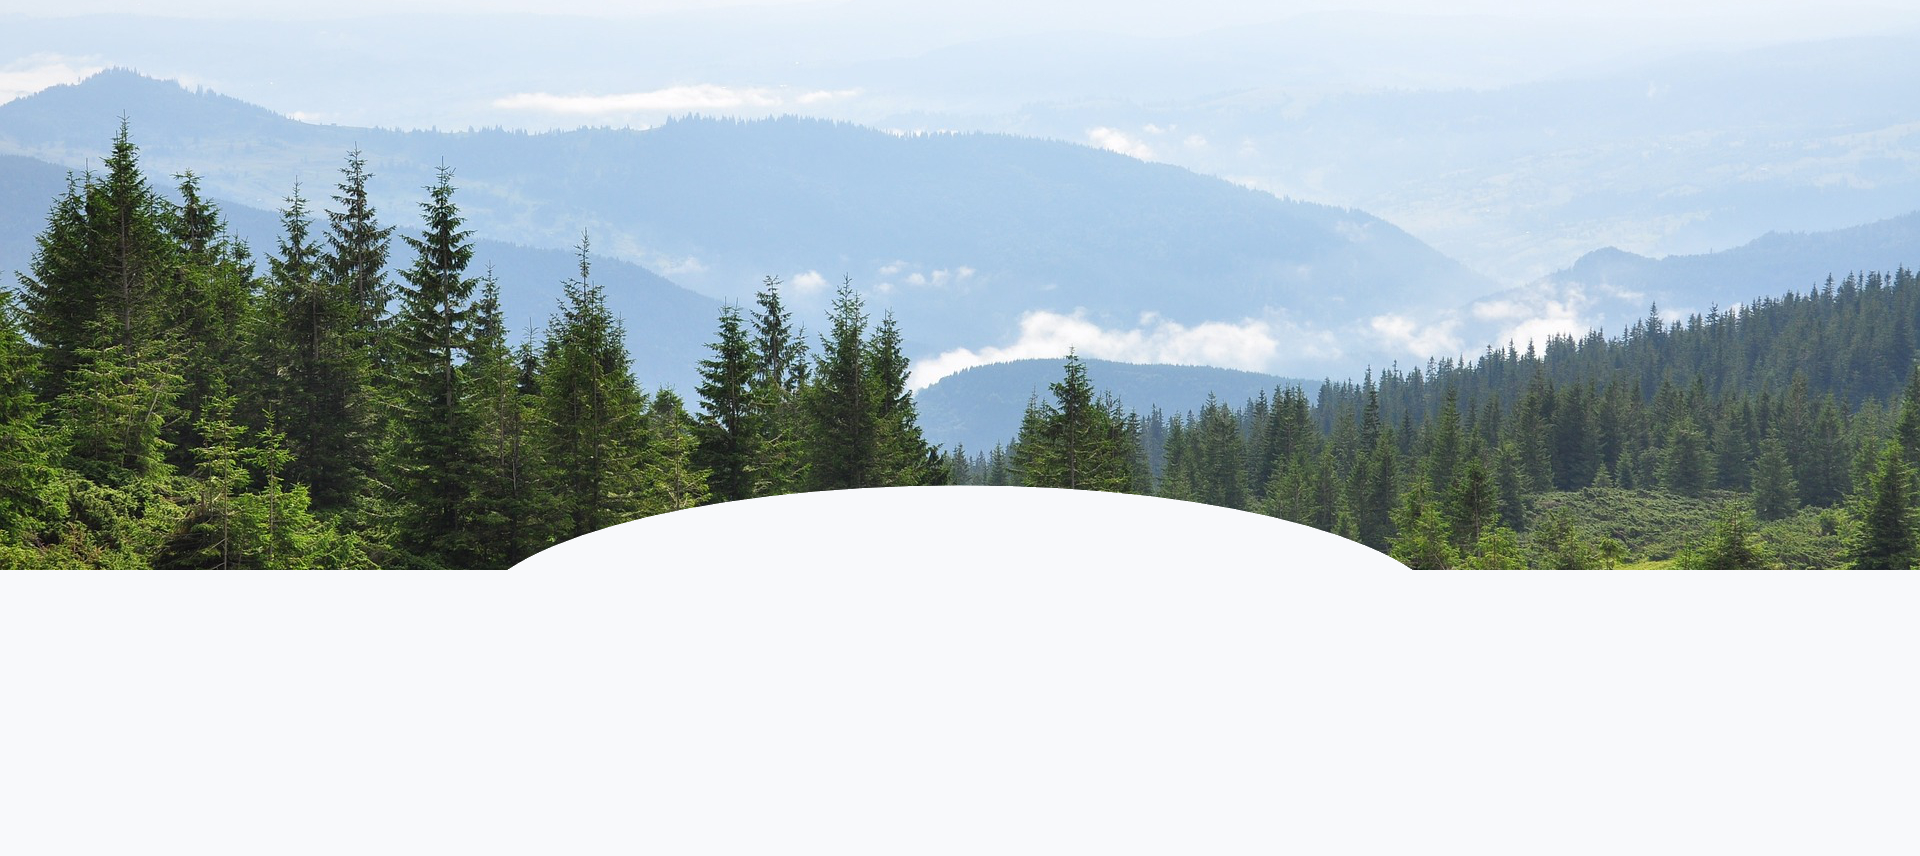
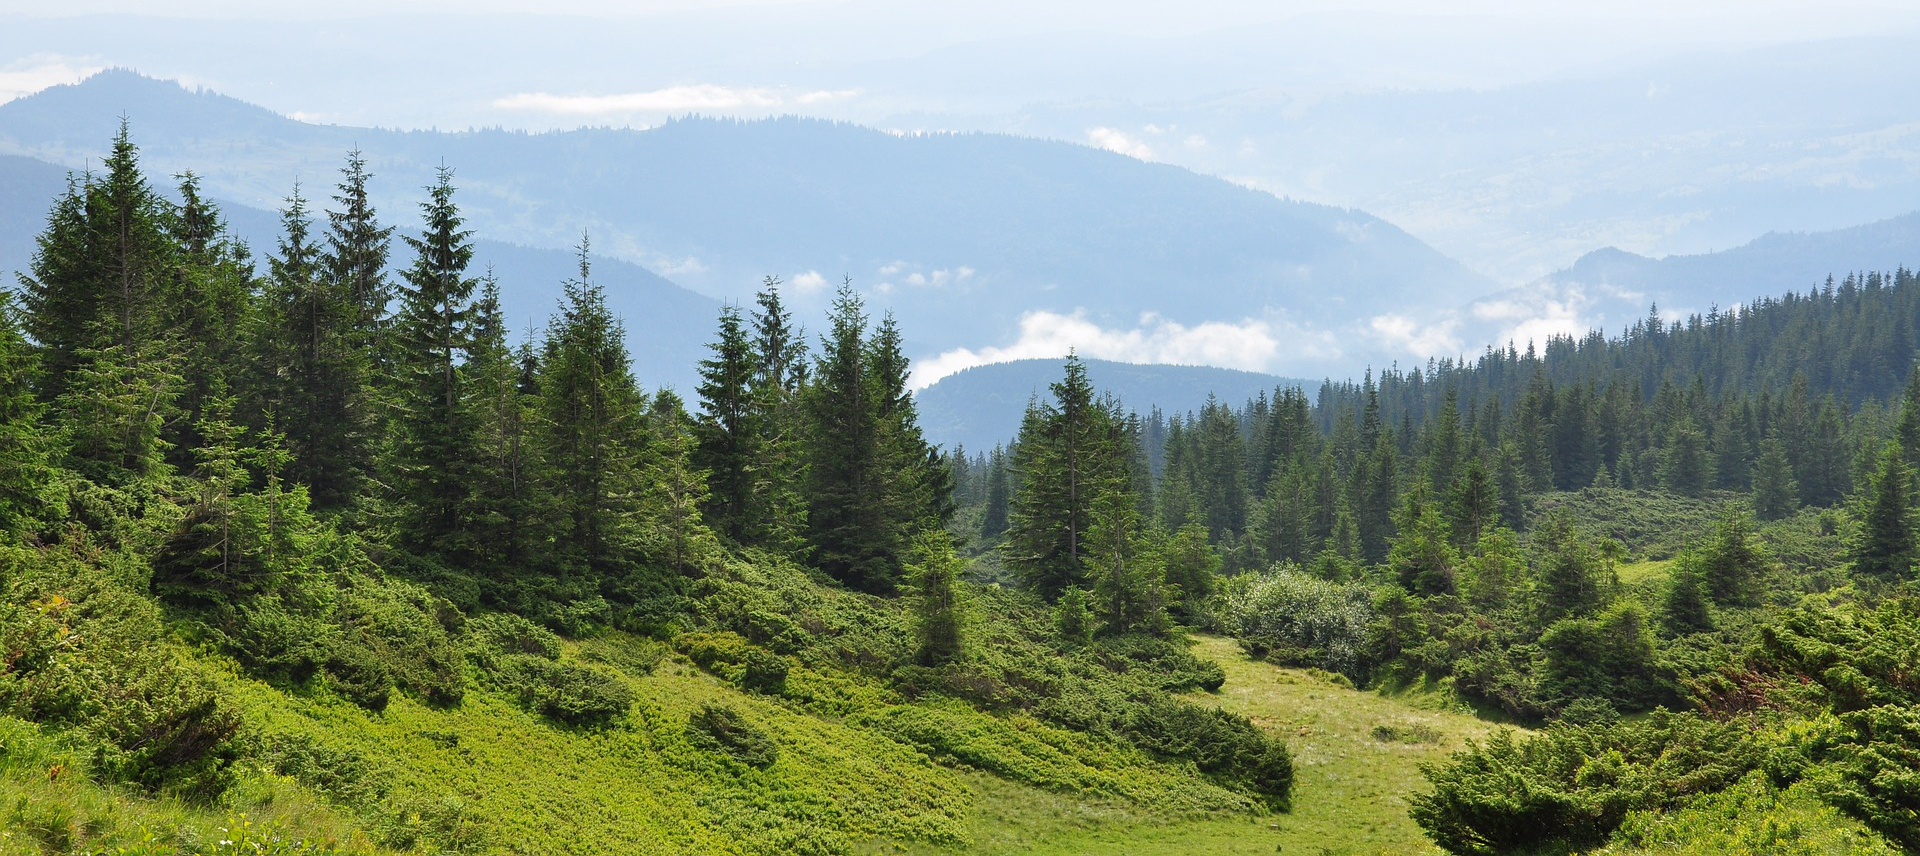
Fixing background.

diff --git a/cabin-app/src/App.js b/cabin-app/src/App.js
@@ -1,5 +1,4 @@
 import React, { useState } from "react";
-//import { Link, Route, Routes } from "react-router-dom"
 import { BodyBackground } from "./styles/BaseStyle"
 import NavigationModule from "./modules/NavigationModule";
 import { SearchBarModule } from './modules/SearchBarModule';
@@ -7,7 +6,7 @@ import { ContentModule } from "./modules/ContentModule";
 import { ModalModule } from "./modules/ModalModule";
 import { defaultSearchFilters } from "./mockup/searchFilterData";
 
-function App() {
+export default function App() {
   const [modalState, setModalState] = useState("");
   const [searchFilters, setSearchFilters] = useState(defaultSearchFilters);
   const [reservationDetails, setReservationDetails] = useState();
@@ -23,6 +22,15 @@ function App() {
 
   return (
     <BodyBackground>
+      <div
+        style={{ position: "absolute", bottom: 0, left: 0, width: "100%", height: "26.75%", backgroundColor: "white" }}
+      >
+      </div>
+      <div
+        className="m-auto"
+        style={{ position: "absolute", top: "63.5%", left: 0, right: 0, width: "60%", height: "50%", backgroundColor: "white", borderRadius: "80%" }}
+      >
+      </div>
       {modalState !== "" &&
         <ModalModule
           defaultSearchFilters={defaultSearchFilters}
@@ -33,7 +41,9 @@ function App() {
           setReservationDetails={setReservationDetails}
         />
       }
-      <NavigationModule />
+      <NavigationModule
+        SetModalState={setModalState}
+      />
       <SearchBarModule
         toggleModal={(filter) => ToggleModal(filter)}
         SetSearchFilters={setSearchFilters}
@@ -45,5 +55,3 @@ function App() {
     </BodyBackground>
   );
 }
-
-export default App;

diff --git a/cabin-app/src/modules/ContentModule.js b/cabin-app/src/modules/ContentModule.js
@@ -25,7 +25,7 @@ export const ContentModule = (props) => {
     <main>
       <section
         className="d-flex justify-content-center align-items-center m-0 p-0"
-        style={{ height: "540px" }}
+        style={{ height: "42vh" }}
       >
         <div class="row mb-auto py-3">
           <p
@@ -43,13 +43,15 @@ export const ContentModule = (props) => {
         </div>
       </section>
       <section
-        className="d-flex justify-content-center align-items-center m-0 py-4 bg-light">
+        className="d-flex position-absolute justify-content-center align-items-center m-auto p-0"
+        style={{ top: "73.25%", left: 0, right: 0 }}
+      >
         <div
           className="row row-cols-2"
-          style={{ width: "76%" }}
+          style={{ width: "76%", paddingTop: "5rem" }}
         >
 
-          <div class="col px-4 py-5">
+          <div class="col px-4">
             <div
               className="position-relative d-flex"
             >
@@ -150,7 +152,7 @@ export const ContentModule = (props) => {
               </div>
             </div>
           </div>
-          <div class="col px-4 py-5">
+          <div class="col px-4">
             <div
               className="position-relative d-flex"
             >

diff --git a/cabin-app/src/modules/NavigationModule.js b/cabin-app/src/modules/NavigationModule.js
@@ -7,7 +7,7 @@ import { useDispatch, useSelector } from "react-redux";
 import { changeLanguage } from "../reducers/sessionReducer";
 import logoBanner from "../images/logo_banner.png";
 
-export default function NavigationModule() {
+export default function NavigationModule(props) {
   const language = useSelector(state => state.session.language);
   const dispatch = useDispatch();
 
@@ -63,7 +63,11 @@ export default function NavigationModule() {
                     Object.keys(navigationData[type][item]).map((child) => {
                       if (child === language) {
                         return (
-                          <ButtonInput id={navigationData[type][item].route} onClick={(event) => navigate(event.target.id)} key={item}>
+                          <ButtonInput
+                            key={item}
+                            id={navigationData[type][item].route}
+                            onClick={(event) => (navigate(event.target.id), props.SetModalState(""))}
+                          >
                             {navigationData[type][item][child].name.toUpperCase()}
                           </ButtonInput>
                         )

diff --git a/cabin-app/src/modules/SearchBarModule.js b/cabin-app/src/modules/SearchBarModule.js
@@ -20,7 +20,7 @@ export const SearchBarModule = (props) => {
             !props.searchFilters[item].modal &&
             < InputStyle
               type={props.searchFilters[item].type}
-              width={"200px"}
+              width={"auto"}
               height={"40px"}
               radius={"0px"}
               border={"none"}
@@ -37,7 +37,7 @@ export const SearchBarModule = (props) => {
             < InputStyle
               id={"modalBtn"}
               type={props.searchFilters[item].type}
-              width={"240px"}
+              width={"auto"}
               height={"40px"}
               radius={"0px"}
               border={"none"}
@@ -69,7 +69,7 @@ export const SearchBarModule = (props) => {
             <InputStyle
               id={"modalBtn"}
               type={props.searchFilters[item].type}
-              width={"240px"}
+              width={"auto"}
               height={"40px"}
               radius={"0px"}
               border={"none"}

diff --git a/cabin-app/src/styles/SearchBarStyle.js b/cabin-app/src/styles/SearchBarStyle.js
@@ -107,6 +107,8 @@ export const SearchBar = styled.div`
   justify-content: space-evenly;
   flex-direction: row;
   align-items: center;
+  margin-left: auto;
+  margin-right: auto;
   flex-wrap: wrap;
   height: 152px;
   width: 100%;

diff --git a/cabin-app/src/styles/BaseStyle.js b/cabin-app/src/styles/BaseStyle.js
@@ -6,7 +6,7 @@ export const BodyBackground = styled.div`
   position: absolute;
   top: 0;
   left: 0;
-  height: 60%;
+  height: 80%;
   width: 100%;
   background-image: url(${backgroundForest2});
   background-size: cover;
